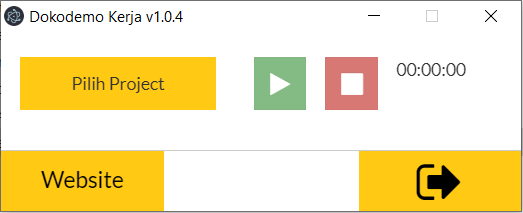
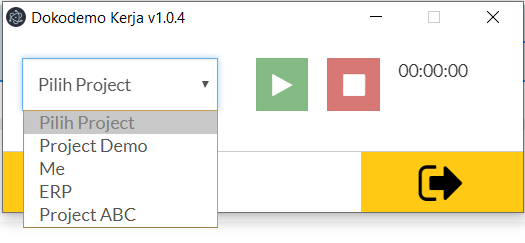
fix : language spelling in trial page, and change wrong image

diff --git a/trial.php b/trial.php
@@ -145,20 +145,20 @@ height="0" width="0" style="display:none;visibility:hidden"></iframe></noscript>
 								<div class="trial-tab-container mt-5">
 									<h2 class="tab-content-title">1. Access Demo Environment</h2>
 									<div class="pl-4 mb-5">
-										<p class="trial-tab-content">Extract folder demo dan cari program Dokodemo-Kerja</p>
+										<p class="trial-tab-content">Extract demo's folder and find Dokodemo-Kerja programs</p>
 										<img src="/img/trial/staff-1.png" class="mb-3 img-fluid img-border"/>
 										<p class="trial-tab-content">Run that application</p>
 										<img src="/img/trial/staff-2.png" class="mb-3 img-fluid img-border"/>
 									</div>
 									<h2 class="tab-content-title">2. Using Dokodemo-Kerja</h2>
 									<div class="pl-4">
-										<p class="trial-tab-content">Login dengan credential yang diterima di email, atau login dengan:</p>
+										<p class="trial-tab-content">Login with credential that has been sent to email, atau login with:</p>
 										<p class="trial-tab-content bold">ID: sales@dokodemo-kerja.com </p>
 										<p class="trial-tab-content bold">Password: Dokodemo-123</p>
 										<img src="/img/trial/staff-3.png" class="mb-3 img-fluid img-border"/>
-										<p class="trial-tab-content">Pilih Project dan tekan tombol Play</p>
+										<p class="trial-tab-content">Choose project and press Play button</p>
 										<img src="/img/trial/staff-4.png" class="mb-3 img-fluid img-border"/>
-										<p class="trial-tab-content">Untuk menghentikan project, tekan tombol pause</p>
+										<p class="trial-tab-content">To stop project, press Pause button</p>
 										<img src="/img/trial/staff-5.png" class="mb-3 img-fluid img-border"/>
 									</div>
 									<h2 class="tab-content-title">3. Using Homepage</h2>
